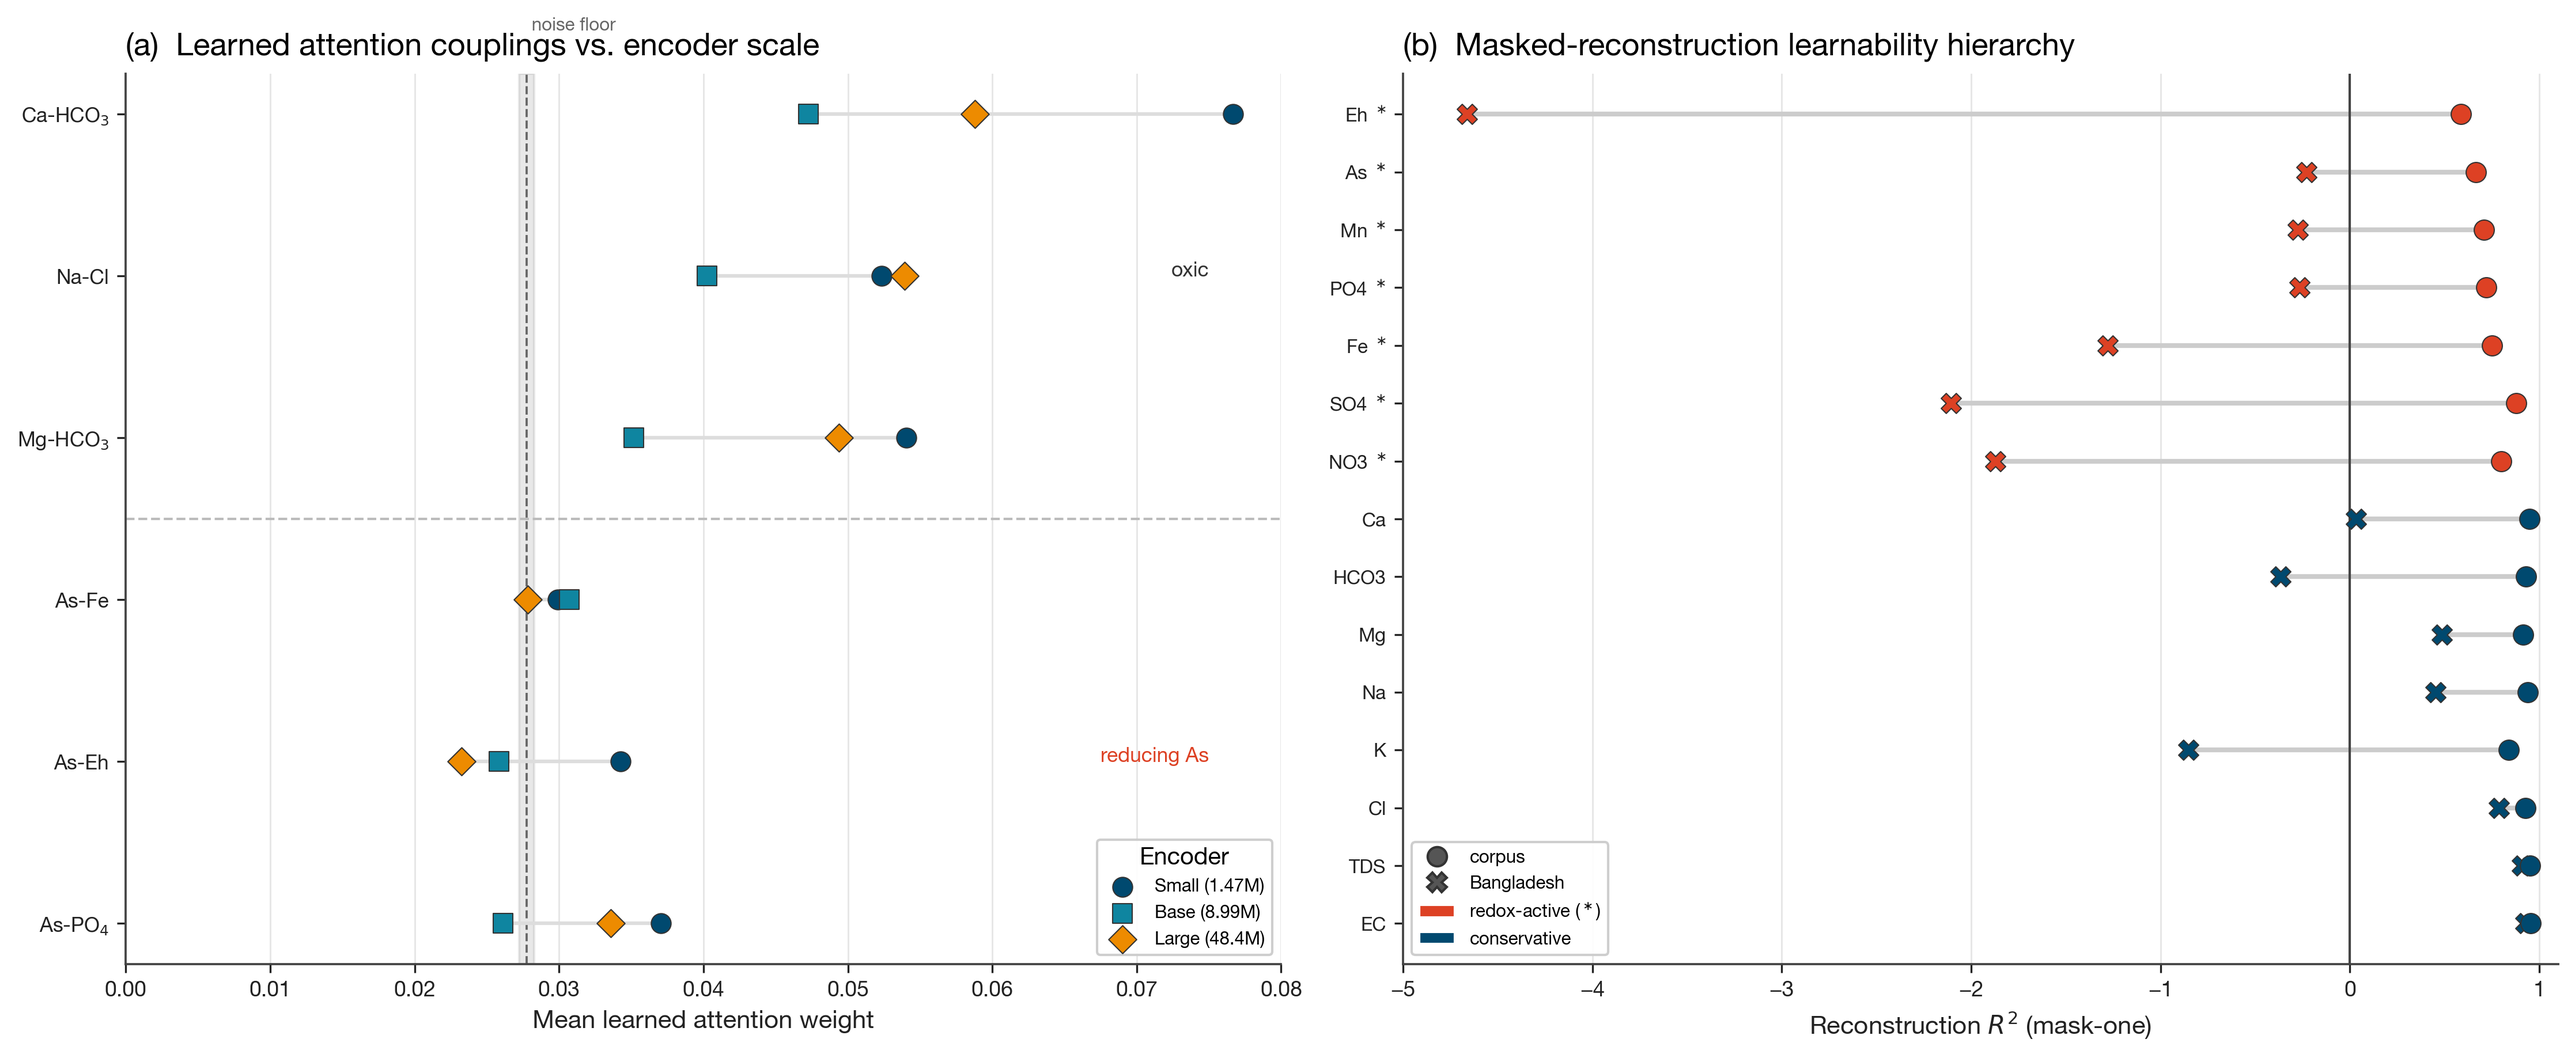
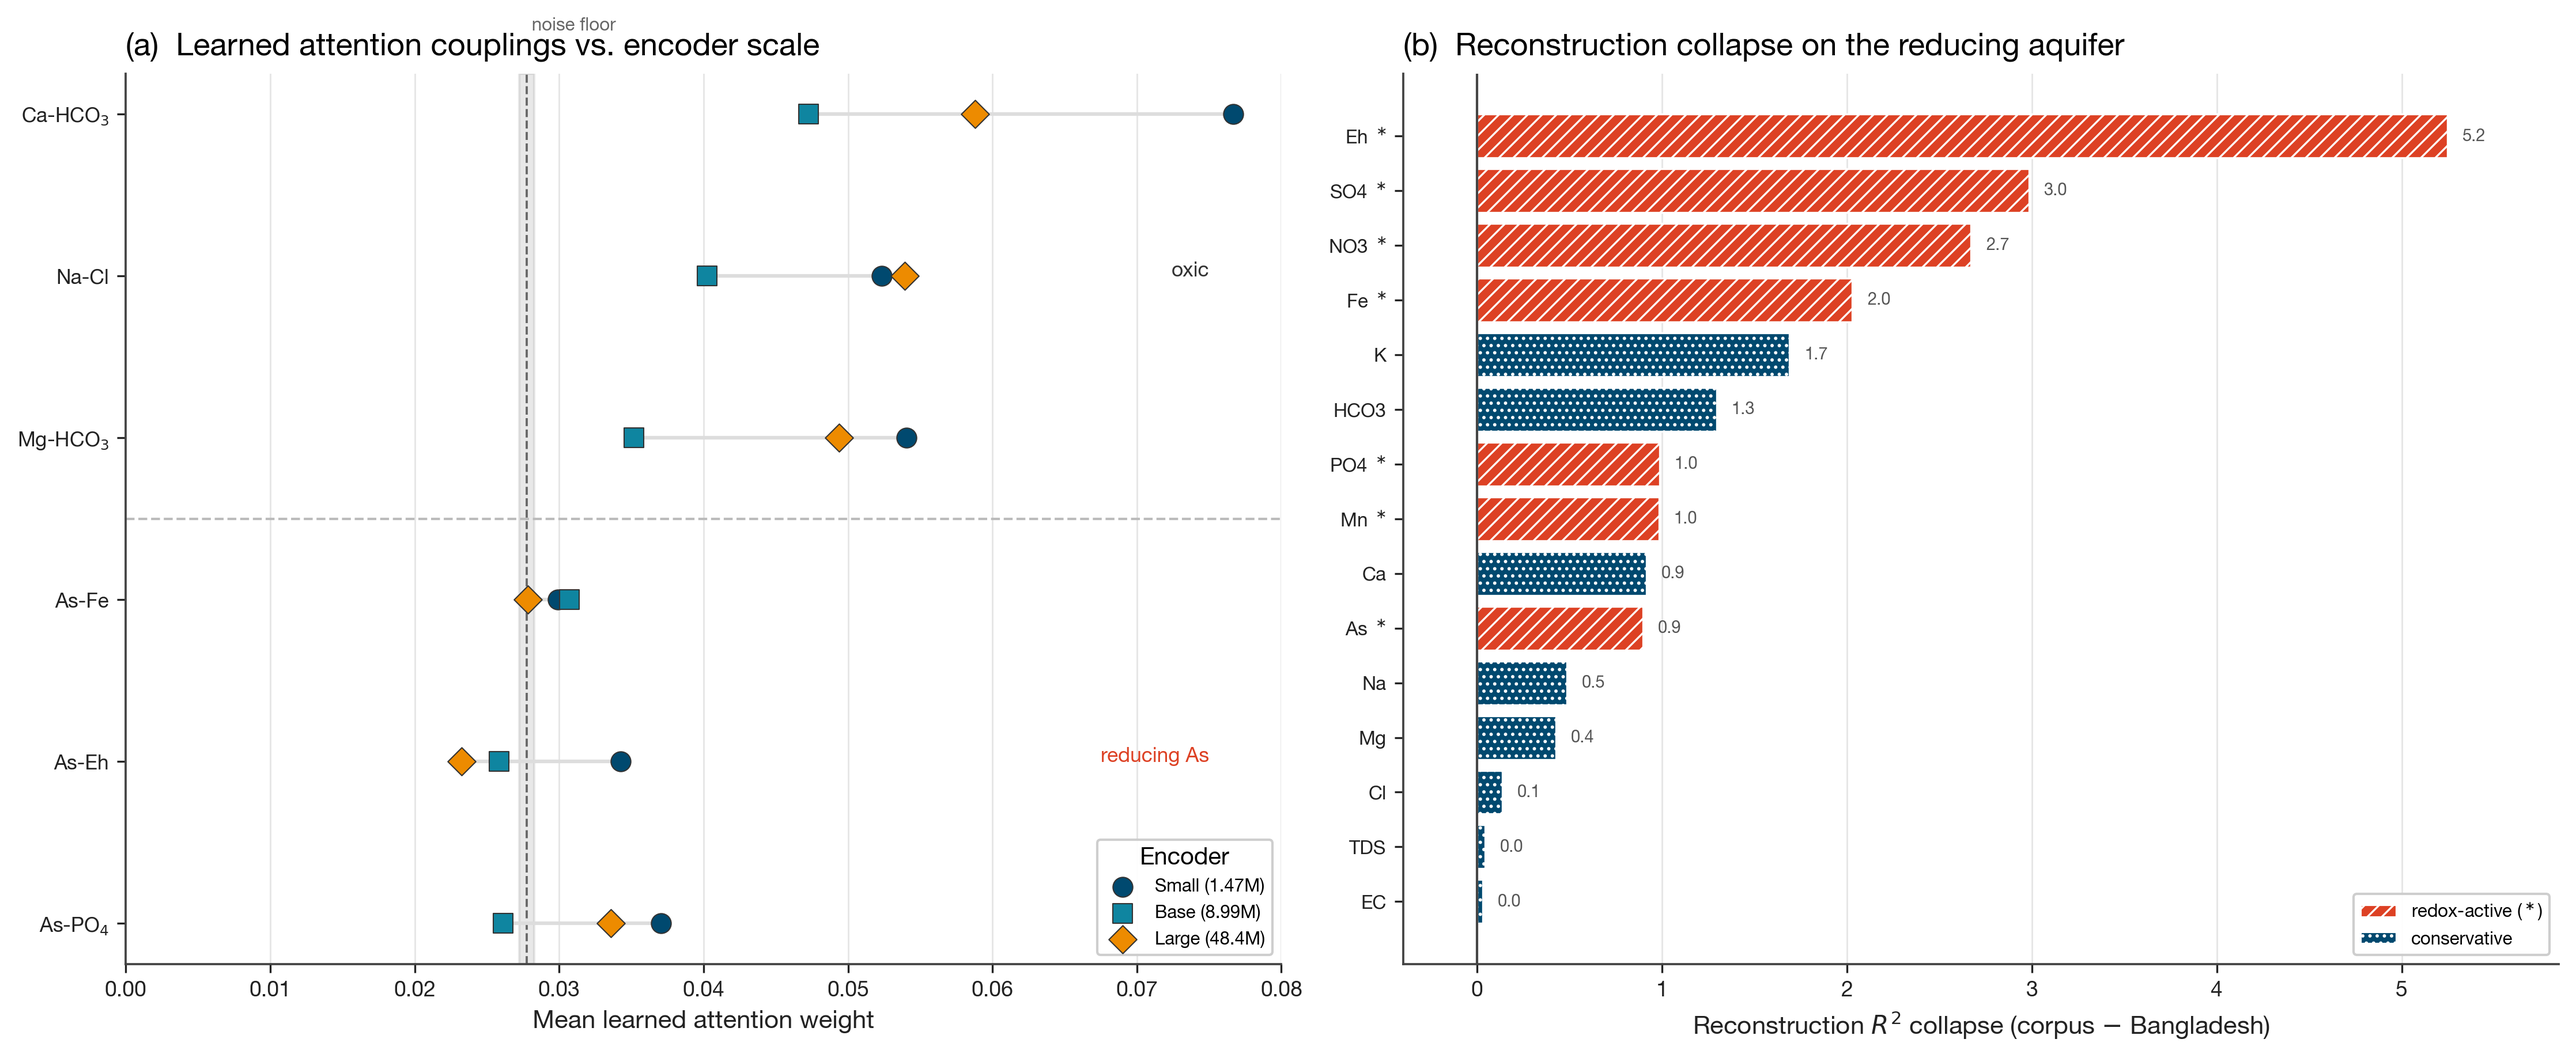
Revise composite viz: forest plot, box/strip, diverging drop-bars (drop lollipop/dumbbell)
Per author preference, replaced the lollipop and dumbbell panels:
- Benchmark (b) FT-vs-RF: dumbbell -> box+strip of per-cell AUC distributions per
  mechanism group (shows spread/overlap, not just means).
- Benchmark (d) baseline-strength: lollipop -> forest plot (Delta +/- 95% CI per
  baseline; CIs clear zero only for the default RF, cross zero for stronger trees).
- Reconstruction: dumbbell -> diverging drop-bars (corpus R2 minus Bangladesh R2;
  redox-active species collapse, conservative ions ~0). Panel title + both
  manuscript captions updated to describe the collapse.
Attention Cleveland dot-plot retained. Both compile (EST 41pp, main 38pp).

diff --git a/src/41_composite_figures.py b/src/41_composite_figures.py
@@ -79,36 +79,34 @@ RECON_ORDER = ["Eh", "As", "U", "Mn", "PO4", "Fe", "SO4", "NO3",
 
 
 def draw_reconstruction(ax):
-    """Dumbbell: corpus R2 -> Bangladesh R2 per parameter; long left arrow = collapse."""
+    """Diverging drop bars: corpus R2 - Bangladesh R2 per parameter (the redox collapse)."""
     d = json.load(open("results/reconstruction_probe.json"))
     corp, bd = d["corpus"], d["bangladesh"]
     ps = [p for p in RECON_ORDER if p in corp and p in bd]
-    y = np.arange(len(ps))[::-1]
-    from matplotlib.lines import Line2D
+    drops = {p: corp[p]["r2"] - bd[p]["r2"] for p in ps}
+    ps = sorted(ps, key=lambda p: drops[p])          # smallest drop at bottom
+    y = np.arange(len(ps))
     for yi, p in zip(y, ps):
         red = p in REDOX
         col = fs.color("redox_active") if red else fs.color("conservative_ion")
-        c_r2, b_r2 = corp[p]["r2"], bd[p]["r2"]
-        ax.plot([b_r2, c_r2], [yi, yi], color="#ccc", lw=2.0, zorder=1, solid_capstyle="round")
-        ax.scatter(b_r2, yi, s=70, color=col, marker="X", edgecolor="#333", linewidth=0.5, zorder=3)  # Bangladesh
-        ax.scatter(c_r2, yi, s=70, color=col, marker="o", edgecolor="#333", linewidth=0.5, zorder=3)  # corpus
+        hat = fs.hatch("redox_active") if red else fs.hatch("conservative_ion")
+        ax.barh(yi, drops[p], color=col, hatch=hat, **fs.BAR)
+        ax.text(drops[p] + 0.08, yi, f"{drops[p]:.1f}", va="center", fontsize=7, color="#555")
     ax.axvline(0, color="#444", lw=1.0)
     ax.set_yticks(y); ax.set_yticklabels([p + (r" $^\ast$" if p in REDOX else "") for p in ps], fontsize=8)
-    ax.set_xlabel(r"Reconstruction $R^2$ (mask-one)"); ax.set_xlim(-5, 1.1)
-    ax.grid(axis="y", visible=False)
-    ax.legend(handles=[Line2D([0], [0], marker="o", color="w", markerfacecolor="#555",
-                              markeredgecolor="#333", ms=8, label="corpus"),
-                       Line2D([0], [0], marker="X", color="w", markerfacecolor="#555",
-                              markeredgecolor="#333", ms=8, label="Bangladesh"),
-                       Patch(facecolor=fs.color("redox_active"), edgecolor="white", label=r"redox-active ($^\ast$)"),
-                       Patch(facecolor=fs.color("conservative_ion"), edgecolor="white", label="conservative")],
-              loc="lower left", fontsize=7.5)
+    ax.set_xlabel(r"Reconstruction $R^2$ collapse (corpus $-$ Bangladesh)")
+    ax.set_xlim(-0.4, max(drops.values()) + 0.6); ax.grid(axis="y", visible=False)
+    ax.legend(handles=[Patch(facecolor=fs.color("redox_active"), hatch=fs.hatch("redox_active"),
+                             edgecolor="white", label=r"redox-active ($^\ast$)"),
+                       Patch(facecolor=fs.color("conservative_ion"), hatch=fs.hatch("conservative_ion"),
+                             edgecolor="white", label="conservative")],
+              loc="lower right", fontsize=7.5)
 
 
 def build_F2():
     fig, (a, b) = plt.subplots(1, 2, figsize=(15, 6.2))
     draw_attention(a); panel_tag(a, "(a)  Learned attention couplings vs. encoder scale")
-    draw_reconstruction(b); panel_tag(b, "(b)  Masked-reconstruction learnability hierarchy")
+    draw_reconstruction(b); panel_tag(b, "(b)  Reconstruction collapse on the reducing aquifer")
     fig.tight_layout(); fig.savefig("figures/figF2_instrument.png")
     print("wrote figures/figF2_instrument.png")
 
@@ -133,27 +131,41 @@ def draw_transfer_distance(ax):
 
 
 def draw_ft_vs_rf_bars(ax):
-    """Dumbbell: fine-tuned vs default random forest per mechanism group."""
+    """Box + strip: per-cell FT vs RF AUC distributions per mechanism group."""
     s = json.load(open("results/redox_dissociation.json"))
-    groups = [("Redox (As,Fe,Mn,PO$_4$)", "ft_vs_rf__REDOX_AsFeMnPO4"),
-              ("Conservative (NO$_3$,F)", "ft_vs_rf__CONSERVATIVE_NO3F"),
-              ("Uranium", "ft_vs_rf__URANIUM"), ("All cells", "ft_vs_rf__ALL_47")]
-    y = np.arange(len(groups))[::-1]
-    for yi, (g, k) in zip(y, groups):
-        ft, rf, p = s[k]["mean_a"], s[k]["mean_b"], s[k]["wilcoxon_p"]
-        ax.plot([rf, ft], [yi, yi], color="#bbb", lw=2.5, zorder=1, solid_capstyle="round")
-        ax.scatter(rf, yi, s=95, color=fs.color("rf"), edgecolor="#333", linewidth=0.7,
-                   zorder=3, label="Random forest" if yi == y[0] else None)
-        ax.scatter(ft, yi, s=95, color=fs.color("finetuned"), edgecolor="#333", linewidth=0.7,
-                   zorder=3, marker="D", label="Fine-tuned" if yi == y[0] else None)
-        st = "***" if p < .001 else "**" if p < .01 else "*" if p < .05 else "n.s."
-        ax.text(max(ft, rf) + 0.012, yi, st, va="center", fontsize=9.5, fontweight="bold",
+    ft = {(r["target"], r["held_out_region"]): r["finetune_auc_mean"]
+          for r in json.load(open("results/loro_finetune_large_multiseed.json"))["per_cell_seedmean"]}
+    rf = {(c["target"], c["held_out_region"]): c.get("rf_auc")
+          for c in json.load(open("results/region_transfer_encoder_large.json"))["results"]}
+    groups = [("Redox\n(As,Fe,Mn,PO$_4$)", {"As", "Fe", "Mn", "PO4"}, "ft_vs_rf__REDOX_AsFeMnPO4"),
+              ("Conserv.\n(NO$_3$,F)", {"NO3", "F"}, "ft_vs_rf__CONSERVATIVE_NO3F"),
+              ("Uranium", {"U"}, "ft_vs_rf__URANIUM")]
+    rng = np.random.default_rng(0)
+    xc = np.arange(len(groups)); w = 0.34
+    for gi, (lab, sel, kk) in enumerate(groups):
+        keys = [k for k in ft if k[0] in sel and rf.get(k) is not None]
+        ftv = np.array([ft[k] for k in keys]); rfv = np.array([rf[k] for k in keys])
+        for off, vals, col, who in [(-w/2, ftv, fs.color("finetuned"), "FT"),
+                                    (+w/2, rfv, fs.color("rf"), "RF")]:
+            bp = ax.boxplot(vals, positions=[gi + off], widths=w*0.8, patch_artist=True,
+                            showfliers=False, medianprops=dict(color="#222", lw=1.3),
+                            whiskerprops=dict(color="#666"), capprops=dict(color="#666"))
+            for box in bp["boxes"]:
+                box.set(facecolor=col, alpha=0.45, edgecolor="#333", linewidth=0.8)
+            jx = gi + off + (rng.random(len(vals)) - 0.5) * w * 0.5
+            ax.scatter(jx, vals, s=18, color=col, edgecolor="#333", linewidth=0.3, zorder=3, alpha=0.9)
+        p = s[kk]["wilcoxon_p"]; st = "***" if p < .001 else "**" if p < .01 else "*" if p < .05 else "n.s."
+        top = max(ftv.max(), rfv.max())
+        ax.text(gi, top + 0.03, st, ha="center", fontsize=9.5, fontweight="bold",
                 color="#222" if p < .05 else "#999")
-    ax.axvline(0.5, color="#999", ls=":", lw=1.0)
-    ax.set_yticks(y); ax.set_yticklabels([g for g, _ in groups], fontsize=8.5)
-    ax.set_ylim(-0.6, len(groups) - 0.4)
-    ax.set_xlabel("Mean transfer AUC"); ax.set_xlim(0.5, 0.95)
-    ax.legend(loc="lower right", fontsize=7.5); ax.grid(axis="y", visible=False)
+    ax.axhline(0.5, color="#999", ls=":", lw=1.0)
+    ax.set_xticks(xc); ax.set_xticklabels([g for g, _, _ in groups], fontsize=8.5)
+    ax.set_ylabel("Per-cell transfer AUC"); ax.set_ylim(0.3, 1.02)
+    from matplotlib.patches import Patch
+    ax.legend(handles=[Patch(facecolor=fs.color("finetuned"), alpha=0.45, edgecolor="#333", label="Fine-tuned"),
+                       Patch(facecolor=fs.color("rf"), alpha=0.45, edgecolor="#333", label="Random forest")],
+              loc="lower left", fontsize=7.5)
+    ax.grid(axis="x", visible=False)
 
 
 def draw_ft_vs_rf_scatter(ax):
@@ -180,25 +192,34 @@ def draw_ft_vs_rf_scatter(ax):
 
 
 def draw_baseline_strength(ax):
-    """Lollipop: redox-suite advantage shrinking as the tree baseline strengthens."""
-    g = json.load(open("results/baseline_strength.json"))["group_summary"]["REDOX_AsFeMnPO4"]
-    order = [("rf_default", "RF\ndefault"), ("rf_reg", "RF\nreg."), ("rf_leaf", "RF\nleaf"),
-             ("histgb", "HistGB"), ("xgb_strong", "XGB"), ("best_tree", "best\ntree")]
+    """Forest plot: redox-suite paired advantage (FT - tree) +/- 95% CI per baseline."""
+    cells = [c for c in json.load(open("results/baseline_strength.json"))["per_cell"]
+             if c["target"] in {"As", "Fe", "Mn", "PO4"}]
+    gsum = json.load(open("results/baseline_strength.json"))["group_summary"]["REDOX_AsFeMnPO4"]
+    order = [("rf_default", "RF (default)"), ("rf_reg", "RF (regularized)"),
+             ("rf_leaf", "RF (leaf=20)"), ("histgb", "HistGradientBoosting"),
+             ("xgb_strong", "XGBoost (strong)"), ("best_tree", "per-cell best tree")]
     cols = [fs.NAVY, fs.TEAL, fs.YELLOW, fs.ORANGE, fs.RED, fs.GREY]
-    x = np.arange(len(order))
-    deltas = [g[k]["delta"] for k, _ in order]
-    ax.plot(x, deltas, color="#bbb", lw=1.5, zorder=1, ls="-")  # trend connector
-    for xi, (k, _), c, d in zip(x, order, cols, deltas):
-        p = g[k]["wilcoxon_p"]
-        ax.plot([xi, xi], [0, d], color=c, lw=2.2, zorder=2)        # stem
-        ax.scatter(xi, d, s=130, color=c, edgecolor="#333", linewidth=0.7, zorder=3)
+    y = np.arange(len(order))[::-1]
+    n = len(cells)
+    for yi, (k, lab), c in zip(y, order, cols):
+        diffs = np.array([cc["ft"] - cc[k] for cc in cells])
+        m = diffs.mean(); se = diffs.std(ddof=1) / np.sqrt(n); ci = 1.96 * se
+        p = gsum[k]["wilcoxon_p"]; sig = p < 0.05
+        ax.plot([m - ci, m + ci], [yi, yi], color=c, lw=2.2, zorder=2,
+                solid_capstyle="round")
+        ax.plot([m - ci, m - ci], [yi - 0.12, yi + 0.12], color=c, lw=1.6)  # caps
+        ax.plot([m + ci, m + ci], [yi - 0.12, yi + 0.12], color=c, lw=1.6)
+        ax.scatter(m, yi, s=110, color=c, edgecolor="#333", linewidth=0.8, zorder=3,
+                   marker="D" if sig else "o")
         st = "**" if p < .01 else "*" if p < .05 else "n.s."
-        ax.text(xi, d + 0.0015, st, ha="center", va="bottom", fontsize=8.5,
-                color="#222" if p < .05 else "#999")
-    ax.axhline(0, color="#444", lw=1.0)
-    ax.set_xticks(x); ax.set_xticklabels([l for _, l in order], fontsize=8)
-    ax.set_xlim(-0.5, len(order) - 0.5)
-    ax.set_ylabel(r"$\Delta$AUC (FT $-$ tree)"); ax.grid(axis="x", visible=False)
+        ax.text(0.043, yi, st, va="center", ha="right", fontsize=8.5,
+                color="#222" if sig else "#999")
+    ax.axvline(0, color="#444", lw=1.2, zorder=1)
+    ax.set_yticks(y); ax.set_yticklabels([l for _, l in order], fontsize=8.5)
+    ax.set_ylim(-0.5, len(order) - 0.5)
+    ax.set_xlabel(r"$\Delta$AUC (fine-tuned $-$ tree)  $\pm$95\% CI")
+    ax.set_xlim(-0.02, 0.045); ax.grid(axis="y", visible=False)
 
 
 def build_F3():
